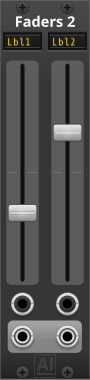
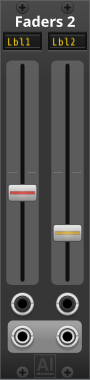
Per-control light colors, Buttons polish, live-performance description
- Fader/Faders2/Faders4 cap band and Buttons buttons get their own light
  color (Rack's 8-color scheme, white by default), picked from the
  control's right-click menu and saved with the patch
  (src/AlLightColor.hpp).
- Buttons: off buttons keep a faint glow in their color; slightly wider
  rim around the button light; redrawn panels.
- Pack description (plugin.json, README intro) reframed around live
  performance with MIDI controllers, playable by MIDI or mouse alike.
- README: one set of menu screenshots for every Fader variant, Buttons
  panel and menu screenshots.

Changed region(s): [[0.0889, 0.4632, 0.4222, 0.6079], [0.5778, 0.5789, 0.9111, 0.6368], [0.5778, 0.3184, 0.9111, 0.3763]]

diff --git a/src/Buttons.cpp b/src/Buttons.cpp
@@ -2,6 +2,7 @@
 #include "PanelTheme.hpp"
 #include "AlPanel.hpp"
 #include "AlLabel.hpp"
+#include "AlLightColor.hpp"
 #include "ButtonLogic.hpp"
 
 // Two lit buttons stacked in one 3HP panel, each with its own label, mode,
@@ -23,6 +24,8 @@ static const char* BUTTON_MODE_NAMES[NUM_BUTTON_MODES] = {
 struct ButtonChannel {
     ButtonLogic logic;
     AlLabel label;
+    // Index into AL_LIGHT_COLOR_NAMES (AlLightColor.hpp).
+    int colorIndex = 0;
 };
 
 struct Buttons : Module {
@@ -92,7 +95,9 @@ struct Buttons : Module {
             }
             outputs[i].setVoltage(logic.step(params[i].getValue() > 0.5f, inputs[i].getVoltage(), args.sampleTime));
             if (updateLights) {
-                lights[i].setBrightness(logic.state ? 1.f : 0.f);
+                // Off isn't fully dark: a faint glow in the button's own
+                // color shows where (and which color) it is.
+                lights[i].setBrightness(logic.state ? 1.f : 0.08f);
             }
         }
     }
@@ -104,6 +109,7 @@ struct Buttons : Module {
             const ButtonChannel& ch = channels[i];
             json_t* buttonJ = json_object();
             ch.label.toJson(buttonJ);
+            json_object_set_new(buttonJ, "color", json_integer(ch.colorIndex));
             // A momentary state is only ever "held right now" — not saved.
             json_object_set_new(buttonJ, "state", json_boolean(ch.logic.mode != BUTTON_MOMENTARY && ch.logic.state));
             json_array_append_new(buttonsJ, buttonJ);
@@ -121,6 +127,7 @@ struct Buttons : Module {
             json_t* buttonJ = json_array_get(buttonsJ, i);
             ButtonLogic& logic = channels[i].logic;
             channels[i].label.fromJson(buttonJ);
+            channels[i].colorIndex = alLightColorFromJson(json_object_get(buttonJ, "color"));
             // The mode switch's own value is already loaded (Rack restores
             // params before dataFromJson); apply it before the saved state so
             // process() doesn't see a mode change and clear it.
@@ -146,27 +153,43 @@ struct AlButton : app::SvgSwitch {
     }
 };
 
-// 9.4 mm light over the button's cap: only a thin rim (0.8 mm: 0.3 mm
-// dark ring + 0.5 mm of cap) shows around it.
+// 8.8 mm light over the button's cap: a thin rim (1.1 mm: 0.4 mm dark
+// ring + 0.7 mm of cap) shows around it.
 template <typename TBase>
 struct AlButtonLight : TBase {
     AlButtonLight() {
-        this->box.size = mm2px(Vec(9.4f, 9.4f));
+        this->box.size = mm2px(Vec(8.8f, 8.8f));
     }
 };
 
 // Rack's own LightButton (componentlibrary.hpp) centers the light on the
-// button. Its right-click menu holds Toggle trigger's light resync.
+// button. Its right-click menu holds the light color and Toggle trigger's
+// light resync.
 struct AlLitButton : LightButton<AlButton, AlButtonLight<WhiteLight>> {
-    void appendContextMenu(Menu* menu) override {
+    Buttons* buttons() {
         ParamQuantity* pq = getParamQuantity();
-        Buttons* mod = pq ? dynamic_cast<Buttons*>(pq->module) : nullptr;
+        return pq ? dynamic_cast<Buttons*>(pq->module) : nullptr;
+    }
+
+    void step() override {
+        LightButton<AlButton, AlButtonLight<WhiteLight>>::step();
+        if (Buttons* mod = buttons()) {
+            alApplyLightColor(light, mod->channels[paramId].colorIndex);
+        }
+    }
+
+    void appendContextMenu(Menu* menu) override {
+        Buttons* mod = buttons();
         if (!mod) {
             return;
         }
         int i = paramId;
+        menu->addChild(new MenuSeparator);
+        alAppendLightColorMenu(menu,
+            [=]() { return mod->channels[i].colorIndex; },
+            [=](int k) { mod->channels[i].colorIndex = k; }
+        );
         if (mod->channels[i].logic.mode == BUTTON_TOGGLE_TRIGGER) {
-            menu->addChild(new MenuSeparator);
             // Resync the light with a downstream switch toggled from
             // elsewhere, without sending it a trigger.
             menu->addChild(createMenuItem("Flip light (no trigger)", "",

diff --git a/src/Fader.cpp b/src/Fader.cpp
@@ -3,6 +3,7 @@
 #include "AlPanel.hpp"
 #include "FaderTakeover.hpp"
 #include "AlLabel.hpp"
+#include "AlLightColor.hpp"
 
 // "Digital mixing desk" faders: each slider's position is its output voltage
 // (in a selectable unipolar or bipolar range), and its CV input — e.g. a
@@ -59,6 +60,8 @@ struct FaderChannel {
     bool dragging = false;
 
     AlLabel label;
+    // Cap band color, index into AL_LIGHT_COLOR_NAMES (AlLightColor.hpp).
+    int colorIndex = 0;
 };
 
 struct FaderBank : Module {
@@ -175,6 +178,7 @@ struct FaderBank : Module {
             const FaderChannel& ch = channels[i];
             json_t* faderJ = json_object();
             ch.label.toJson(faderJ);
+            json_object_set_new(faderJ, "color", json_integer(ch.colorIndex));
             json_object_set_new(faderJ, "range", json_integer(ch.rangeIndex));
             json_object_set_new(faderJ, "threshold", json_integer(ch.thresholdIndex));
             json_array_append_new(fadersJ, faderJ);
@@ -187,6 +191,7 @@ struct FaderBank : Module {
         if (channels[i].label.fromJson(faderJ)) {
             updatePortNames();
         }
+        channels[i].colorIndex = alLightColorFromJson(json_object_get(faderJ, "color"));
         if (json_t* j = json_object_get(faderJ, "range")) {
             setRange(i, json_integer_value(j));
         }
@@ -224,7 +229,7 @@ struct Faders4 : FaderBank {
 };
 
 #ifndef HEADLESS
-// The Range / Input takeover threshold submenus of fader `i`, shared by its
+// The Range / Input takeover threshold / Light color submenus of fader `i`, shared by its
 // slider's right-click menu and (on the single Fader) the module's own.
 static void appendFaderMenu(Menu* menu, FaderBank* bank, int i) {
     std::vector<std::string> rangeNames;
@@ -243,6 +248,10 @@ static void appendFaderMenu(Menu* menu, FaderBank* bank, int i) {
         [=]() { return bank->channels[i].thresholdIndex; },
         [=](int k) { bank->setThreshold(i, k); }
     ));
+    alAppendLightColorMenu(menu,
+        [=]() { return bank->channels[i].colorIndex; },
+        [=](int k) { bank->channels[i].colorIndex = k; }
+    );
 }
 
 // Theme-independent, like Aluminium's ports. 76 mm track.
@@ -300,7 +309,14 @@ struct AlFaderHandleLight : RectangleLight<WhiteLight> {
     }
 };
 
-using AlFaderSlider = LightSlider<AlFaderSliderBase, AlFaderHandleLight>;
+struct AlFaderSlider : LightSlider<AlFaderSliderBase, AlFaderHandleLight> {
+    void step() override {
+        LightSlider<AlFaderSliderBase, AlFaderHandleLight>::step();
+        if (FaderBank* b = bank()) {
+            alApplyLightColor(light, b->channels[paramId].colorIndex);
+        }
+    }
+};
 
 struct FaderBankWidget : ModuleWidget {
     int numFaders;

diff --git a/src/AlLightColor.hpp b/src/AlLightColor.hpp
@@ -1,0 +1,51 @@
+#pragma once
+#include "plugin.hpp"
+
+using namespace rack;
+
+// Per-control light color (Fader cap band, Buttons button), picked from the
+// control's own right-click menu and saved with the patch. Rack's own color
+// scheme (componentlibrary.hpp), white first as the default. Only the
+// widget uses the colors: it sets its light's base color in step(), so the
+// module keeps driving a plain brightness.
+
+static const int AL_NUM_LIGHT_COLORS = 8;
+
+static const char* AL_LIGHT_COLOR_NAMES[AL_NUM_LIGHT_COLORS] = {
+    "White", "Red", "Orange", "Yellow", "Green", "Cyan", "Blue", "Purple",
+};
+
+inline NVGcolor alLightColor(int index) {
+    static const NVGcolor colors[AL_NUM_LIGHT_COLORS] = {
+        componentlibrary::SCHEME_WHITE,
+        componentlibrary::SCHEME_RED,
+        componentlibrary::SCHEME_ORANGE,
+        componentlibrary::SCHEME_YELLOW,
+        componentlibrary::SCHEME_GREEN,
+        componentlibrary::SCHEME_CYAN,
+        componentlibrary::SCHEME_BLUE,
+        componentlibrary::SCHEME_PURPLE,
+    };
+    return colors[clamp(index, 0, AL_NUM_LIGHT_COLORS - 1)];
+}
+
+inline int alLightColorFromJson(json_t* j) {
+    return j ? clamp((int) json_integer_value(j), 0, AL_NUM_LIGHT_COLORS - 1) : 0;
+}
+
+#ifndef HEADLESS
+inline void alAppendLightColorMenu(Menu* menu, std::function<int()> get, std::function<void(int)> set) {
+    menu->addChild(createIndexSubmenuItem("Light color",
+        std::vector<std::string>(AL_LIGHT_COLOR_NAMES, AL_LIGHT_COLOR_NAMES + AL_NUM_LIGHT_COLORS),
+        get, set
+    ));
+}
+
+// Points `light` at the chosen color (a 1-color ModuleLightWidget).
+inline void alApplyLightColor(app::ModuleLightWidget* light, int index) {
+    NVGcolor c = alLightColor(index);
+    if (light && !light->baseColors.empty() && !color::isEqual(light->baseColors[0], c)) {
+        light->baseColors[0] = c;
+    }
+}
+#endif

diff --git a/README.md b/README.md
@@ -1,10 +1,10 @@
 # Aluminium — User Manual
 
-**Aluminium** is a small collection of MIDI-CV utility modules for VCV Rack / Cardinal, all built around one goal: getting more out of real MIDI keyboards and controllers in a live performance patch, beyond what Rack's core **MIDI-CV** module alone gives you. That covers a wide range of setups — from the simplest one, owning a single MIDI master keyboard on one channel and wanting to split it into two or more independently-playable zones, all the way up to a rig built around an advanced controller with velocity- and polyphonic-aftertouch-sensitive pads, where every pad becomes its own fully expressive CV voice.
+**Aluminium** is a collection of modules for VCV Rack / Cardinal built for **live performance with MIDI controllers**, going further than what Rack's core **MIDI-CV** module alone gives you: splitting a MIDI keyboard into independently playable zones, turning velocity- and aftertouch-sensitive pads into fully expressive CV voices, and putting labeled faders and buttons on the panel that a controller's faders, knobs and buttons drive over MIDI — and that the mouse drives just as well. Whichever moved last wins, so a patch mapped to your controllers stays fully playable, and keeps its settings, whether or not they are plugged in.
 
 ![All Aluminium panels, Dark theme](docs/images/AllModules_Dark.png)
 
-- **Zones** turns that one keyboard into as many independent note-range zones as you want. Chain several Zones modules together (feed one zone's output into the next one's input) and you can cut the keyboard into 3, 4, or more zones — each usable on its own as a polyphonic or true-legato monophonic voice.
+- **Zones** turns a single MIDI keyboard into as many independent note-range zones as you want. Chain several Zones modules together (feed one zone's output into the next one's input) and you can cut the keyboard into 3, 4, or more zones — each usable on its own as a polyphonic or true-legato monophonic voice.
 - **Pads** and its expander (**PadX**) exist for live performance with MIDI pad controllers: patch in a controller whose pads are velocity- and/or polyphonic-aftertouch-sensitive, learn each pad once, and every pad becomes its own independent, fully expressive CV voice — gate, velocity, aftertouch, whatever lane you need — with no MIDI-mapping software and no hand-built V/OCT comparison logic. The same trick works just as well on a handful of keys reserved off the end of an ordinary keyboard (after a split, if the rest is still being played melodically), and nothing ties either module to a single input — feed one Pads module from one controller's pads while a Zones output handles another controller's keys, and build a full live rig from several MIDI controllers at once, all inside the same patch. Any cell can also be switched to Latch mode, turning a press into an on/off toggle instead of a hold.
 - **Fader** is a labeled slider that a MIDI CC (or any CV) moves on its own, like a motorized fader on a digital mixing desk — grab it, and it's yours again until the CC moves. **Faders2** and **Faders4** put 2 or 4 of them side by side.
 - **Buttons** does the same for on/off controls: two lit buttons that a gate or trigger can press remotely — momentary, latching, or as a lit indicator in front of a trigger-driven switch.
@@ -53,7 +53,7 @@ Right-click any Aluminium module to open its context menu. One entry is identica
 
 ![Aluminium theme submenu](docs/images/Menu_Theme.png)
 
-Zones adds two more entries of its own (documented under [Zones](#zones)), and Pads adds three more (documented under [Pads](#pads)). Fader adds two more; Faders2 and Faders4 have the same two per fader, on each slider's own right-click menu instead (see [Context menus](#context-menus)), and Buttons has a *Flip light (no trigger)* entry on a button's own right-click menu while it's in Toggle trigger mode (see [Buttons](#buttons)). PadX has no other entries — its label is edited directly on the panel, not via the menu.
+Zones adds two more entries of its own (documented under [Zones](#zones)), and Pads adds three more (documented under [Pads](#pads)). Fader adds three more; Faders2 and Faders4 have the same three per fader, on each slider's own right-click menu instead (see [Context menus](#context-menus)), and Buttons has a *Light color* entry (plus *Flip light (no trigger)* in Toggle trigger mode) on each button's own right-click menu (see [Buttons](#buttons)). PadX has no other entries — its label is edited directly on the panel, not via the menu.
 
 ## Shared conventions
 
@@ -254,20 +254,20 @@ Vertical faders, like channel strips on a digital mixing desk: each slider's pos
 **Settings** (per fader)
 - **Range** — *0 V to 10 V* (default), *0 V to 5 V*, *0 V to 1 V*, *-10 V to 10 V*, *-5 V to 5 V*, *-1 V to 1 V*. In a bipolar range, 0 V is the middle of the travel, and a double-click resets the slider there. Switching range keeps the slider where it is and rescales its voltage.
 - **Input takeover threshold** — how far the input has to move, from where it was when it last lost the slider, before it takes over: *Any change*, *0.1% of range* (default), *0.4% of range* (half a 7-bit MIDI CC step), *2% of range*. Raise it if a noisy source keeps stealing the slider. Once the input is in control, it is followed by any amount.
+- **Light color** — the color of the lit band on the fader cap: *White* (default), *Red*, *Orange*, *Yellow*, *Green*, *Cyan*, *Blue*, *Purple* — e.g. to tell faders apart at a glance.
 
 ### Context menus
 
-- **Fader** — both settings are in the module's context menu (right-click the panel), and also in the slider's own right-click menu.
+The three settings are the same menu on every variant — only where it opens differs:
 
-![Fader's Range submenu](docs/images/Fader_Menu_Range.png)
-
-![Fader's Input takeover threshold submenu](docs/images/Fader_Menu_InputTakeoverThreshold.png)
-
+- **Fader** — in the module's context menu (right-click the panel), and also in the slider's own right-click menu.
 - **Faders2 / Faders4** — each fader's settings are in **its slider's** right-click menu, below Rack's usual slider entries. The module's own context menu only has the Aluminium theme.
 
-![A Faders4 slider's Range submenu](docs/images/Faders_Menu_Range.png)
+![Range submenu](docs/images/Fader_Menu_Range.png)
 
-![A Faders4 slider's Input takeover threshold submenu](docs/images/Faders_Menu_InputTakeoverThreshold.png)
+![Input takeover threshold submenu](docs/images/Fader_Menu_InputTakeoverThreshold.png)
+
+![Light color submenu](docs/images/Fader_Menu_LightColor.png)
 
 **Update rate** — the faders update their outputs every 32 samples (0.7 ms at 48 kHz) to save CPU: unnoticeable for a slider or a MIDI CC, but a fast signal (e.g. an audio-rate LFO) patched into an input comes out in 0.7 ms steps. Bypassing the module passes each input straight to its output at full rate.
 
@@ -283,6 +283,10 @@ Two lit buttons stacked in one 3HP panel, in the same spirit as [Fader](#fader-f
 - **Toggle trigger** — for a lit indicator in front of a trigger-driven switch (e.g. a sequential "4 to 1" switch used with 2 inputs to turn a sub-oscillator on and off, like the Moog Subsequent 37's SUB button): the **output is a straight copy of the input**, so the trigger reaches the switch untouched, while every press flips the **light** only. Clicking the button flips the light and sends a 1 ms, 10 V trigger out, so the panel button toggles the switch as well, and the light stays in step either way. The light's state is saved with the patch, like the downstream switch's own. If the two ever get out of step (the switch toggled from elsewhere), **Flip light (no trigger)**, on the button's own right-click menu in this mode, flips the light alone.
 
 Switching between Latch and Toggle trigger keeps the light; any change to or from Momentary turns it off. A gate already high when a patch loads isn't taken as a press.
+
+**Light color** — on each button's own right-click menu: *White* (default), *Red*, *Orange*, *Yellow*, *Green*, *Cyan*, *Blue*, *Purple*. Off, a button keeps a faint glow in its color, so you can still see where it is and which one it is.
+
+![A button's right-click menu (Toggle trigger mode)](docs/images/Buttons_Menu.png)
 
 **Label** — same field as [Fader](#fader-faders2-and-faders4)'s (6 characters, auto-filled from the input cable's source, also names the button and its ports, *Button 1* / *Button 2* while empty).
 
